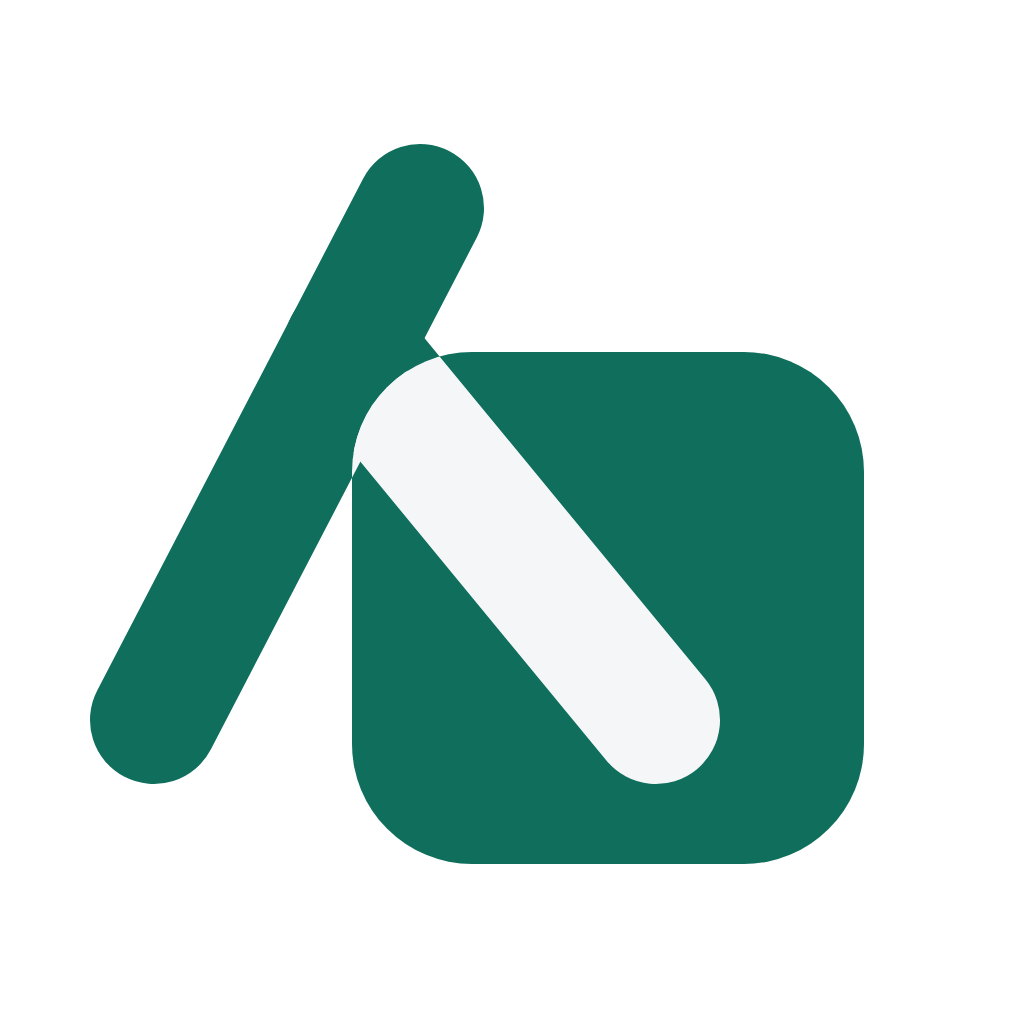
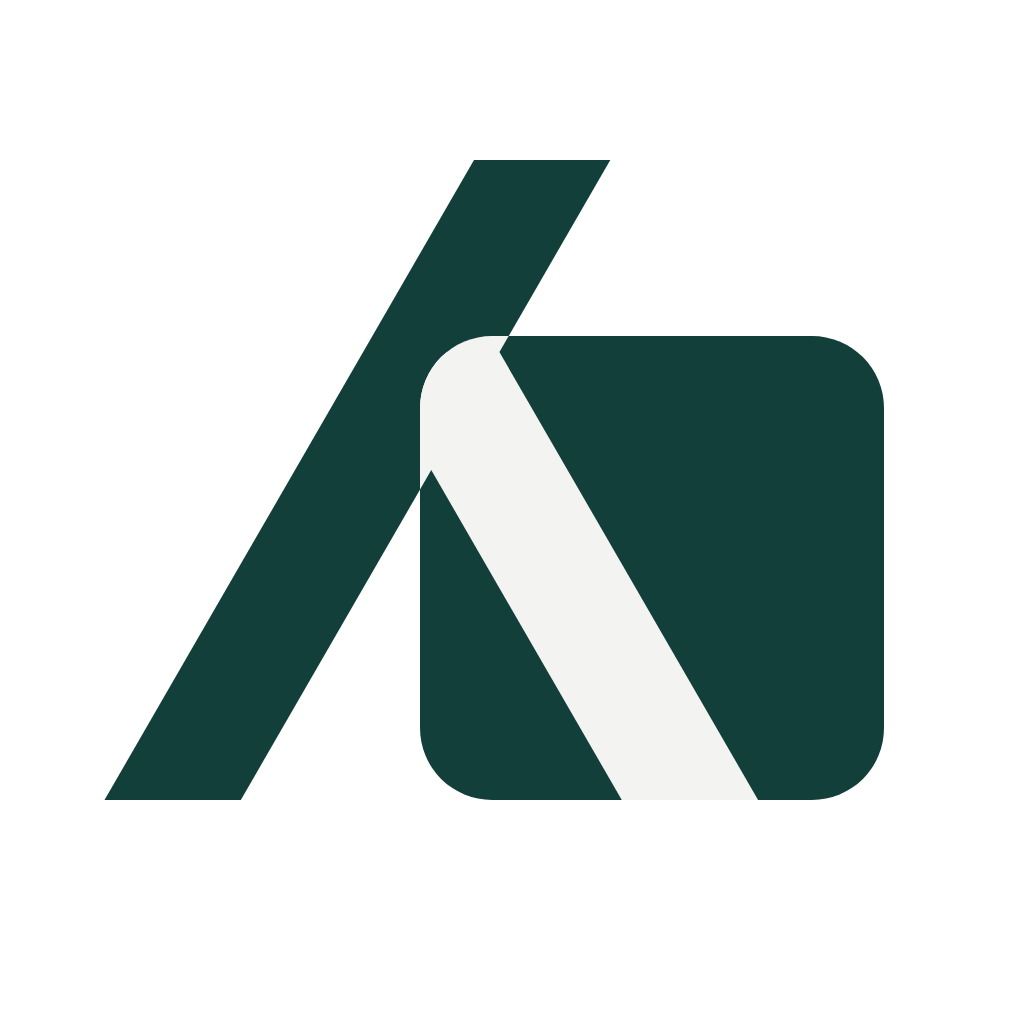
feat(brand): type-style ㅅ·ㅁ monogram; desaturated pine palette
ㅅ is built like type — horizontally cut parallelogram strokes at 30°,
118 thick, right stroke branching at 30% of the left — and shares its
baseline with ㅁ (464, radius 72). No ornament, no accent in the mark.
Palette moves to Pine #123F3A / Ink #15191E / Paper / Night; Fact amber
stays UI-only. UI accent tokens follow the mark.

diff --git a/src/web/styles.css b/src/web/styles.css
@@ -10,14 +10,14 @@
   --muted: #6b7681;
   --line: #dde3e9;
   --line-strong: #c5ced7;
-  --accent: #0e7c66;
-  --accent-ink: #ffffff;
-  --accent-soft: #e2f3ee;
+  --accent: #123f3a;
+  --accent-ink: #f3f4f2;
+  --accent-soft: #e3ece9;
   --score: #b86e00;
   --score-soft: #fbefdc;
   --danger: #c23b3b;
   --danger-soft: #fbe6e6;
-  --ok: #0e7c66;
+  --ok: #1f6b5c;
   --warn: #b86e00;
   --shadow: 0 1px 2px rgba(19, 26, 34, 0.06), 0 8px 24px -12px rgba(19, 26, 34, 0.18);
   --radius: 12px;
@@ -30,16 +30,16 @@
 @media (prefers-color-scheme: dark) {
   :root:not([data-theme="light"]) {
     --ground: #0e1216; --surface: #151b21; --surface-2: #1c242c; --ink: #e8ecef; --ink-2: #c3cbd3; --muted: #8a96a1;
-    --line: #253039; --line-strong: #34414c; --accent: #37b892; --accent-ink: #06231b; --accent-soft: #143229;
-    --score: #e5a33c; --score-soft: #33280f; --danger: #ef6b6b; --danger-soft: #3a1c1c; --ok: #37b892; --warn: #e5a33c;
+    --line: #253039; --line-strong: #34414c; --accent: #7cc7b0; --accent-ink: #0e1216; --accent-soft: #16302b;
+    --score: #e5a33c; --score-soft: #33280f; --danger: #ef6b6b; --danger-soft: #3a1c1c; --ok: #7cc7b0; --warn: #e5a33c;
     --shadow: 0 1px 2px rgba(0, 0, 0, 0.4), 0 8px 24px -12px rgba(0, 0, 0, 0.6);
     color-scheme: dark;
   }
 }
 :root[data-theme="dark"] {
   --ground: #0e1216; --surface: #151b21; --surface-2: #1c242c; --ink: #e8ecef; --ink-2: #c3cbd3; --muted: #8a96a1;
-  --line: #253039; --line-strong: #34414c; --accent: #37b892; --accent-ink: #06231b; --accent-soft: #143229;
-  --score: #e5a33c; --score-soft: #33280f; --danger: #ef6b6b; --danger-soft: #3a1c1c; --ok: #37b892; --warn: #e5a33c;
+  --line: #253039; --line-strong: #34414c; --accent: #7cc7b0; --accent-ink: #0e1216; --accent-soft: #16302b;
+  --score: #e5a33c; --score-soft: #33280f; --danger: #ef6b6b; --danger-soft: #3a1c1c; --ok: #7cc7b0; --warn: #e5a33c;
   --shadow: 0 1px 2px rgba(0, 0, 0, 0.4), 0 8px 24px -12px rgba(0, 0, 0, 0.6);
   color-scheme: dark;
 }

diff --git a/docs/brand/BRAND.md b/docs/brand/BRAND.md
@@ -29,25 +29,38 @@
 
 이름 **소문**의 두 자모가 뜻을 나눠 갖는다.
 
-- **ㅁ** — 만든 것. 상자, 저장소, 결과물. 꽉 찬 둥근 사각.
-- **ㅅ** — 말. 사람(人)이 마주 서서 말을 건네는 두 획, 교정지의 캐럿(^) "여기에 넣어라", 소문이 퍼지는 갈래.
+- **ㅅ** — 말. 사람(人)이 마주 서서 말을 건네는 두 획, 교정지의 캐럿(^), 퍼지는 갈래.
+- **ㅁ** — 만든 것. 상자, 저장소, 결과물.
 
-마크는 **ㅅ이 ㅁ 위로 걸쳐 들어오는** 모노그램이다. 읽는 순서대로 소(ㅅ)가 왼쪽, 문(ㅁ)이 오른쪽에 있고, ㅅ의 오른획이 ㅁ의 왼쪽 위 모서리로 들어온다. 만든 것에서 말이 번진다.
-ㅁ 안쪽에 들어온 ㅅ은 종이색으로 반전(녹아웃)해 한 톤에서 두 형태가 짜인다.
-점·파문·그림자 같은 장식은 없다. 형태 둘, 색 하나.
+마크는 읽는 순서대로 ㅅ이 왼쪽, ㅁ이 오른쪽에 있고, **ㅅ의 오른획이 ㅁ의 왼쪽 위로 걸쳐 들어온다.** 만든 것에서 말이 번진다.
+ㅁ 안으로 들어온 ㅅ은 종이색으로 반전해 한 톤에서 두 형태가 짜인다. 장식은 없다.
 
-격자: 1024 기준. 획 128, ㅁ 512×512, 모서리 반지름 120. ㅅ의 오른획은 한글 구조대로 왼획 중간에서 갈라진다.
-검토 후 버린 방향: 캐럿+점(2026-09-21 초안), S 리플, 워드마크 "소", 테두리 변주(`alt-frame.svg`).
+### 구축 (활자 방식)
+
+획을 선으로 긋지 않고 면으로 짠다. 이 구축은 람다(λ)와 같은 원리이고, 획 순서만 ㅅ이다.
+
+| 항목 | 값 |
+|---|---|
+| 격자 | 1024 |
+| 획 각도 | 수직 기준 30° |
+| 획 두께 | 118 (수직 방향), 끝은 수평으로 자름 |
+| 오른획 분기 | 왼획 높이의 30% 지점 |
+| ㅁ | 464×464, 모서리 72 |
+| 밑선 | ㅅ과 ㅁ이 800을 공유 |
+
+버린 방향과 이유: 둥근 끝 선 획(마커 낙서처럼 보임), 캐럿+점(장식), S 리플(장식·광택), 워드마크 "소"(글자 하나는 상징이 못 됨), 각진 ㅁ 모서리 28(소형에서 아이콘 틀과 겹침).
 
 ## 5. 색
 
 | 이름 | 값 | 쓰임 |
 |---|---|---|
-| 잉크 (Ink) | `#0F6F5C` → `#0A4F42` | 마크 획, 주 색. 교정지의 녹색 잉크 |
-| 사실 (Fact) | `#E5A33C` | 마크의 점, 점수. 한 번만 쓰는 강조 |
-| 종이 (Paper) | `#F4F6F8` / `#0E1216` | 밝은·어두운 바탕 |
+| 소나무 (Pine) | `#123F3A` | 마크와 주 색. 채도를 낮춘 짙은 녹색. 교정 잉크 |
+| 먹 (Ink) | `#15191E` | 단색 변주(`mark-ink.svg`), 본문 글자 |
+| 종이 (Paper) | `#F3F4F2` | 밝은 바탕, 마크의 반전 부분 |
+| 밤 (Night) | `#0E1216` | 어두운 바탕 |
+| 사실 (Fact) | `#E5A33C` | UI의 점수·강조에만. 마크에는 쓰지 않는다 |
 
-녹색은 "교정 잉크"에서 왔다. 빨간 펜이 아니라 녹색 펜인 이유는, 소문은 틀린 것을 지우는 쪽이 아니라 맞는 것을 골라 넣는 쪽이기 때문이다.
+녹색이 교정 잉크인 이유: 빨간 펜은 지우고, 녹색 펜은 골라 넣는다. 소문은 후자다.
 
 ## 6. 글자
 
@@ -67,7 +80,8 @@
 
 | 파일 | 용도 |
 |---|---|
-| `mark.svg` | 마크 원본 (잉크색, 안쪽 반전은 종이색, 투명 배경) |
+| `mark.svg` | 마크 원본 (소나무색, 안쪽 반전은 종이색, 투명 배경) |
+| `mark-ink.svg` | 단색 먹 변주 |
 | `mark-paper.svg` | 마크 (종이색, 어두운 배경·타일용) |
 | `icon-1024.png` | 앱 아이콘, 투명 배경 RGBA |
 | `tile-1024.png` | 타일 아이콘 (배경 있음) |
